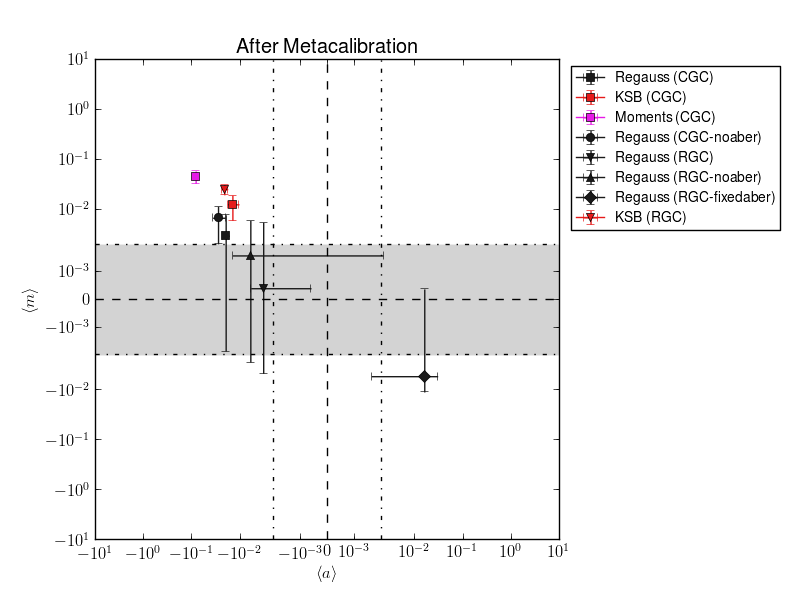
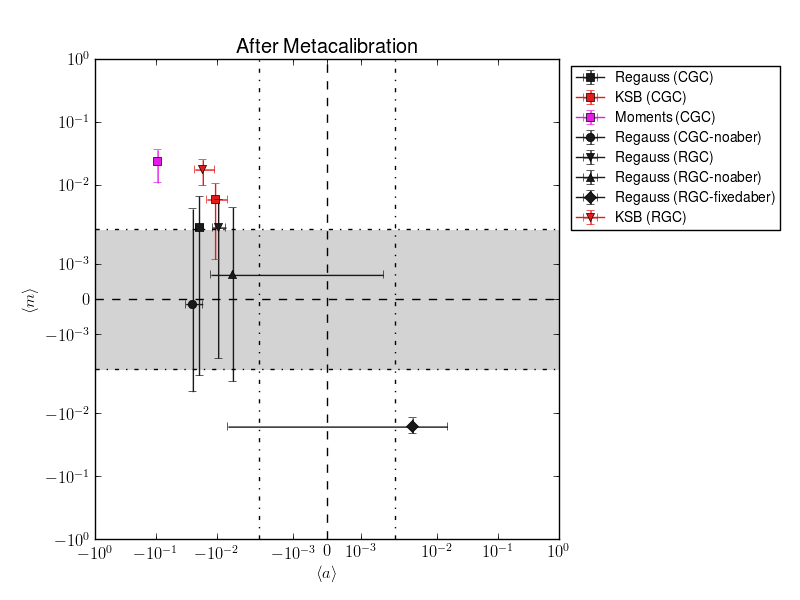
Updated adapative weighting measurement script.

diff --git a/Scripts/shear_est_simple.py b/Scripts/shear_est_simple.py
@@ -94,6 +94,7 @@ def getAllCatalogs( path = '../Great3/', mc_type = None, sn_cut = None ):
             truthCat = truthCat[use]
 
         catalogs.append(this_catalog)
+
     return catalogs, truthFile
 
 def reconstructMetacalMeas(g=None, R=None, a = None, c=None, psf_e=None, delta_g = 0.01 ):
@@ -103,35 +104,18 @@ def reconstructMetacalMeas(g=None, R=None, a = None, c=None, psf_e=None, delta_g
     em = (esum - ediff)/2. - a * psf_e
     return ep,em
 
-def bootstrap_err_est(catalog=None, g1Tag='g1',g2Tag='g2', method=None, n_iter = 100):
-    
-    e1 = []
-    e2 = []
-    for i in xrange(n_iter):
-        this_catalog = np.random.choice(catalog,size=catalog.size,replace=True)
-        this_e1 = method(this_catalog[g1Tag])
-        this_e2 = method(this_catalog[g2Tag])
-        e1.append(this_e1)
-        e2.append(this_e2)
-    e1 = np.array(e1)
-    e2 = np.array(e2)
-    #e1_err = np.abs(np.percentile(e1,36) - np.percentile(e1,64))
-    #e2_err = np.abs(np.percentile(e2,36) - np.percentile(e2,64))
-    e1_err = np.std(e1)
-    e2_err = np.std(e2)
-    return e1_err, e2_err
-
 def shear_avg(e, weights = True, n= 4, exp=False, scale = .25, pars = None):
     if weights is None:
         return np.mean(e)
     else:
         if n is not None:
             #weight = 1./(scale**n + np.abs(e)**n)
-            weight = 1./(1 + (e/scale)**2/n)**((n+1)/2.)
+            weight = 1./(1 + (e/ scale)**2/n)**((n+1)/2.)
         elif exp is True:
             weight = np.exp(- 0.5*np.abs(e/scale)**2)
         elif pars is not None:
             weight = emt.t(e, 0., pars[1], pars[2])
+
         for i in xrange(10):
             eavg = np.average(e,weights=weight)
             if n is not None:
@@ -140,6 +124,7 @@ def shear_avg(e, weights = True, n= 4, exp=False, scale = .25, pars = None):
                 weight = np.exp(- 0.5*(np.abs(e-eavg)/scale)**2)
             elif pars is not None:
                 weight = emt.t(e - eavg, 0., pars[1], pars[2])
+
         logL = np.average(np.log(weight[weight > 0]) - np.log(np.sum(weight)))
         return np.average(e,weights=weight), logL
 
@@ -177,7 +162,7 @@ def shear_est(catalogs, truthFile, delta_g = 0.01, weights = True,mc_type=None):
     yy_data,b = np.histogram(e1_master,bins=bins)
     yy_gauss = np.exp(-(xx-mu1)**2/2./sigma1**2)
     yy_gauss = yy_gauss/np.sum(yy_gauss)
-    yy_power = 1./(1 + (xx/sigma1/2.)**2/(nu1+eps))**(((nu1+eps)+1)/2.)
+    yy_power = 1./(1 + (xx/(sigma1/2.))**2/(nu1+eps))**(((nu1+eps)+1)/2.)
     yy_power = yy_power/np.sum(yy_power)
     ax1.plot(xx,yy_est,label='model')
     ax1.plot(xx,yy_data*1./np.sum(yy_data),label='data')
@@ -192,7 +177,7 @@ def shear_est(catalogs, truthFile, delta_g = 0.01, weights = True,mc_type=None):
     yy_data = yy_data*1./np.sum(yy_data)
     yy_gauss = np.exp(-(xx-mu2)**2/2./sigma2**2)
     yy_gauss = yy_gauss/np.sum(yy_gauss)
-    yy_power = 1./(1 + (xx/sigma2/2.)**2/(nu2+eps))**(((nu2+eps)+1)/2.)
+    yy_power = 1./(1 + (xx/(sigma2/2.))**2/(nu2+eps))**(((nu2+eps)+1)/2.)
     yy_power = yy_power/np.sum(yy_power)
     ax2.plot(xx,yy_est,label='model')
     ax2.plot(xx,yy_data,label='data')
@@ -300,7 +285,6 @@ def getCalibCoeff(results):
     A2 = np.column_stack([results['g2_true'], results['psf_e2'], np.ones_like(results['psf_e2'])]).transpose()
     B2 = results['g2_est'] - results['g2_true']
     ret2_val, covar2 = curve_fit(shear_model, A2, B2, sigma=results['g1_err'])
-
     
     coeff1 = {'m':ret1_val[0],
              'm_err':np.sqrt(covar1[0][0]),
@@ -315,19 +299,18 @@ def getCalibCoeff(results):
              'a_err':np.sqrt(covar2[1][1]),
              'c':ret2_val[2],
              'c_err':np.sqrt(covar2[2][2])}
-
                  
     return coeff1,coeff2
 
 
 
-def analyze(results_all,mc_type = None, logLcut1 = 3.6, logLcut2 = 3.6):
+def analyze(results_all,mc_type = None, logLcut1 = 3.6, logLcut2 = 3.6, clip=False):
 
     # use only the results with matching truth table entries.
     results = results_all[results_all['good'] & (results_all['logL_e1'] > logLcut1) & (results_all['logL_e2'] > logLcut2) ]
     res_exc = results_all[(results_all['logL_e1'] < logLcut1) & (results_all['logL_e2'] < logLcut2) ]
     # Apply a 10% outlier clipping:
-    clipfrac = 5
+    clipfrac = 2
     clip_interval1 = np.abs(np.percentile(results['g1_est'] - results['g1_true'],clipfrac/2.) -
                            np.percentile(results['g1_est'] - results['g1_true'],100-clipfrac/2.))
     keep1 = (np.abs(results['g1_est'] - results['g1_true'] ) < clip_interval1)
@@ -336,14 +319,9 @@ def analyze(results_all,mc_type = None, logLcut1 = 3.6, logLcut2 = 3.6):
     keep2 = (np.abs(results['g2_est'] - results['g2_true'] ) < clip_interval2) 
     keep = keep1 & keep2
     resclip = results[keep]
-    #coeff_clipped1 = np.polyfit(resclip['g1_true'],resclip['g1_est']-resclip['g1_true'],1)
-    #coeff_clipped2 = np.polyfit(resclip['g2_true'],resclip['g2_est']-resclip['g2_true'],1)
-
     
     figName = mc_type+'-simple'
-    #coeff1 = np.polyfit(results['g1_true'],results['g1_est']-results['g1_true'],1)
-    #coeff2 = np.polyfit(results['g2_true'],results['g2_est']-results['g2_true'],1)
-    resraw = results.copy()
+    resraw = results_all.copy()
     resraw['g1_est'] = resraw['g1_raw']
     resraw['g2_est'] = resraw['g2_raw']
     
@@ -362,7 +340,7 @@ def analyze(results_all,mc_type = None, logLcut1 = 3.6, logLcut2 = 3.6):
 
 
     
-    fig,((ax1,ax2),(ax3,ax4),(ax5,ax6)) = plt.subplots(nrows=3,ncols=2,figsize=(14,21))
+    fig,((ax1,ax2),(ax3,ax4),(ax5,ax6),(ax7,ax8)) = plt.subplots(nrows=4,ncols=2,figsize=(14,21))
     xlim = [-0.06, 0.06]
     y_interval_raw = np.abs(np.percentile(np.hstack((results['g1_raw']-results['g1_true'],results['g2_raw']-results['g2_true'])),10) -
                             np.percentile(np.hstack((results['g1_raw']-results['g1_true'],results['g2_raw']-results['g2_true'])),90))
@@ -379,31 +357,45 @@ def analyze(results_all,mc_type = None, logLcut1 = 3.6, logLcut2 = 3.6):
     ax1.axhline(0,linestyle='--',color='red')
     ax1.set_xlim(xlim)
     ax1.set_ylim(ylim_raw)
+    ax1.annotate('m = %.4f +/- %.4f \n a = %.4f +/- %.4f \n c = %.4f +/0 %.4f'%
+                 (coeff1_raw['m'],coeff1_raw['m_err'],coeff1_raw['a'],coeff1_raw['a_err'],
+                  coeff1_raw['c'],coeff1_raw['c_err']),xy=(0.05, 0.85), xycoords='axes fraction')
+
     
     ax2.plot(results['g2_true'],results['g2_raw'] - results['g2_true'],'.',color='blue')
     ax2.plot([-1,1],[coeff2_raw['c'] -coeff2_raw['m'], coeff2_raw['c'] + coeff2_raw['m']],color='cyan')
     ax2.axhline(0,linestyle='--',color='red')
     ax2.set_xlim(xlim)
     ax2.set_ylim(ylim_raw)
+    ax2.annotate('m = %.4f +/- %.4f \n a = %.4f +/- %.4f \n c = %.4f +/0 %.4f'%
+                 (coeff2_raw['m'],coeff2_raw['m_err'],coeff2_raw['a'],coeff2_raw['a_err'],
+                  coeff2_raw['c'],coeff2_raw['c_err']),xy=(0.05, 0.85), xycoords='axes fraction')
     
     #--------------------------------------------------    
     # Next, the MC'd results.
     #--------------------------------------------------
     ax3.plot(results['g1_true'],results['g1_est'] - results['g1_true'],'.',color='blue')
-    ax3.plot(res_exc['g1_true'],res_exc['g1_est'] - res_exc['g1_true'],'.',color='red')
+    ax3.plot(res_exc['g1_true'],res_exc['g1_est'] - res_exc['g1_true'],'s',color='red')
     ax3.plot([-1,1],[coeff1['c'] -coeff1['m'], coeff1['c'] + coeff1['m']],color='orange')
     ax3.plot([-1,1],[coeff_clipped1['c'] -coeff_clipped1['m'], coeff_clipped1['c'] + coeff_clipped1['m']],color='cyan')
     ax3.axhline(0,linestyle='--',color='red')
     ax3.set_xlim(xlim)
     ax3.set_ylim(ylim_est)
-    
+    ax3.annotate('m = %.4f +/- %.4f \n a = %.4f +/- %.4f \n c = %.4f +/0 %.4f'%
+                 (coeff1['m'],coeff1['m_err'],coeff1['a'],coeff1['a_err'],
+                  coeff1['c'],coeff1['c_err']),xy=(0.05, 0.85), xycoords='axes fraction')
+
+        
     ax4.plot(results['g2_true'],results['g2_est'] - results['g2_true'],'.',color='blue')
-    ax4.plot(res_exc['g2_true'],res_exc['g2_est'] - res_exc['g2_true'],'.',color='red')
+    ax4.plot(res_exc['g2_true'],res_exc['g2_est'] - res_exc['g2_true'],'s',color='red')
     ax4.plot([-1,1],[coeff2['c'] -coeff2['m'], coeff2['c'] + coeff2['m']],color='orange')
     ax4.plot([-1,1],[coeff_clipped2['c'] -coeff_clipped2['m'], coeff_clipped2['c'] + coeff_clipped2['m']],color='cyan')
     ax4.axhline(0,linestyle='--',color='red')
     ax4.set_xlim(xlim)
     ax4.set_ylim(ylim_est)
+    ax4.annotate('m = %.4f +/- %.4f \n a = %.4f +/- %.4f \n c = %.4f +/0 %.4f'%
+                 (coeff2['m'],coeff2['m_err'],coeff2['a'],coeff2['a_err'],
+                  coeff2['c'],coeff2['c_err']),xy=(0.05, 0.85), xycoords='axes fraction')
 
     ax5.plot(results_all['logL_e1'],results_all['g1_est']-results_all['g1_true'],'.')
     ax5.set_xlabel('logL')
@@ -413,9 +405,31 @@ def analyze(results_all,mc_type = None, logLcut1 = 3.6, logLcut2 = 3.6):
     ax6.set_xlabel('logL')
     ax6.axvline(logLcut2,color='red')
     ax6.axhline(0,color='red',linestyle='--')
+
+    ax7.plot(results['psf_e1'],results['g1_est']-results['g1_true'],'.',color='blue')
+    ax7.plot(res_exc['psf_e1'],res_exc['g1_est']-res_exc['g1_true'],'s',color='red')
+    ax7.plot(results['psf_e1'],results['g1_est']-results['g1_true'],'.',color='blue')
+    ax7.plot(res_exc['psf_e1'],res_exc['g1_est']-res_exc['g1_true'],'s',color='red')
+    ax7.plot([-1,1],[coeff1['c'] - coeff1['a'], coeff1['c'] + coeff1['a']],color='orange')
+    ax7.plot([-1,1],[coeff_clipped1['c'] - coeff_clipped1['a'], coeff_clipped1['c'] + coeff_clipped1['a']],color='orange')
+    ax7.axhline(0,linestyle='--',color='red')
+    ax7.set_xlim(-0.2,0.2)
+    ax7.set_xlabel('psf_e1')
+        
+    ax8.plot(results['psf_e2'],results['g2_est']-results['g2_true'],'.',color='blue')
+    ax8.plot(res_exc['psf_e2'],res_exc['g2_est']-res_exc['g2_true'],'s',color='red')
+    ax8.plot([-1,1],[coeff2['c'] - coeff2['a'], coeff2['c'] + coeff2['a']],color='orange')
+    ax8.plot([-1,1],[coeff_clipped2['c'] - coeff_clipped2['a'], coeff_clipped2['c'] + coeff_clipped2['a']],color='orange')
+    ax8.axhline(0,linestyle='--',color='red')
+    ax8.set_xlim(-0.2,0.2)
+    ax8.set_xlabel('psf_e2')
     
+        
     fig.savefig(figName)
-    return coeff1, coeff2, coeff1_raw, coeff2_raw
+    if clip is False:
+        return coeff1, coeff2, coeff1_raw, coeff2_raw
+    else:
+        return coeff_clipped1, coeff_clipped2, coeff1_raw, coeff2_raw
 
 def determineLoglCuts(catalog, percentile = None):
     if percentile is not None:
@@ -442,6 +456,7 @@ def main(argv):
     parser.add_argument("-p", "--percentile_cut", dest="percentile_cut",
                         help="percentile",type= float, default = 10)
     parser.add_argument("-a", "--do_all", dest = "do_all", action="store_true", default = False)
+    parser.add_argument("-c", "--clip", dest = "clip", action='store_true', help="clip large residuals", default = False)
     parser.add_argument("-sn", "--snos_cut", dest="sn_cut",
                         help="signal-to-noise cut",type= float, default = 0)
 
@@ -461,6 +476,7 @@ def main(argv):
         logLcut1, logLcut2 = determineLoglCuts(results, percentile = args.percentile_cut)
         coeff1, coeff2,_,_ = analyze(results,mc_type= args.mc_type, logLcut1 = logLcut1, logLcut2 = logLcut2)
 
+    
 
     else:
         final_mc_choices = ['regauss', 'ksb', 'moments','noaber-regauss','rgc-regauss',
@@ -474,21 +490,22 @@ def main(argv):
             catalogs, truthfile = getAllCatalogs(path=path, mc_type= mc_type)
             results = shear_est(catalogs,truthfile, mc_type = mc_type)
             logLcut1, logLcut2 = determineLoglCuts(results, percentile = percentile_cut)
-            coeff1_d, coeff2_d, coeff1_nc_d, coeff2_nc_d = analyze(results,mc_type= mc_type, logLcut1 = logLcut1, logLcut2 = logLcut2)
+            coeff1_d, coeff2_d, coeff1_nc_d, coeff2_nc_d = analyze(results,mc_type= mc_type,
+                                                                   logLcut1 = logLcut1, logLcut2 = logLcut2,
+                                                                   clip=args.clip)
             outfile_coeff = "final_field_fit_coefficients-simple.txt"
-            keys = ['m','m_err','c','c_err','a','a_err']
+            keys = ['m','a','c','m_err','a_err','c_err']
             coeff1 = [coeff1_d[key] for key in keys]
             coeff2 = [coeff2_d[key] for key in keys]
             coeff1_nc = [coeff1_nc_d[key] for key in keys]
             coeff2_nc = [coeff2_nc_d[key] for key in keys]
             all_coeff.append(np.hstack((mc_type, coeff1_nc, coeff2_nc, coeff1, coeff2) ))
-    
         with open(outfile_coeff,'w') as f:
             print "# method  m1_no_corr  sigma_m1_no_corr  c1_no_corr  sigma_c1_no_corr  a1_no_corr  sigma_a1_no_corr  m2_no_corr  sigma_m2_no_corr  c2_no_corr  sigma_c2_no_corr  a2_no_corr  sigma_a2_no_corr  m1_mc  sigma_m1_mc  c1_mc  sigma_c1_mc  a1_mc  sigma_a1_mc  m2_mc  sigma_m2_mc  c2_mc  sigma_c2_mc  a2_mc  sigma_a2_mc \n"
             for row in all_coeff:
                 for el in row:
                     f.write(str(el)+' ')
-                    f.write('\n')
+                f.write('\n')
 
             
 if __name__ == "__main__":

diff --git a/Scripts/great3like.py b/Scripts/great3like.py
@@ -12,13 +12,13 @@ matplotlib.rcParams['pdf.use14corefonts'] = True
 matplotlib.rcParams['text.usetex'] = True
 
 # define constants, files, etc.
-infile = 'final_field_fit_coefficients.txt'
+infile = 'final_field_fit_coefficients-simple.txt'
 outfile1 = 'great3_before_after'
 outfile2 = 'great3_before'
 outfile3 = 'great3_after'
 outsuff = '.png'
-a_lim = (-10.,10.)
-m_lim = (-10.,10.)
+a_lim = (-1.,1.)
+m_lim = (-1.,1.)
 # components: average them or ...?
 components = ['1','2','both']
 # make dicts with translation of codes to branches and methods
@@ -69,13 +69,13 @@ for component in components:
         a_err_vals = new_array[:,10]
         m_vals = new_array[:,6]
         m_err_vals = new_array[:,9]
+
     min_a = min(a_vals-a_err_vals)
     max_a = max(a_vals+a_err_vals)
     min_m = min(m_vals-m_err_vals)
     max_m = max(m_vals+m_err_vals)
     for ind in range(n):
         mstr = method_list[ind]
-        print mstr
         #if 'moments' not in mstr:
         plt.errorbar([a_vals[ind]], [m_vals[ind]], xerr=[a_err_vals[ind]], yerr=[m_err_vals[ind]],
                      marker=info_dict[mstr]['marker'], color=info_dict[mstr]['color'],

diff --git a/Scripts/shear_ensemble_est.py b/Scripts/shear_ensemble_est.py
@@ -849,7 +849,6 @@ def main(argv):
             print "wrote plots to "+mc_type+'-opt-shear_plots.png'
         outfile_coeff = "final_field_fit_coefficients.txt"
         with open(outfile_coeff,'w') as f:
-            print "# method  m1_no_corr  sigma_m1_no_corr  c1_no_corr  sigma_c1_no_corr  a1_no_corr  sigma_a1_no_corr  m2_no_corr  sigma_m2_no_corr  c2_no_corr  sigma_c2_no_corr  a2_no_corr  sigma_a2_no_corr  m1_mc  sigma_m1_mc  c1_mc  sigma_c1_mc  a1_mc  sigma_a1_mc  m2_mc  sigma_m2_mc  c2_mc  sigma_c2_mc  a2_mc  sigma_a2_mc \n"
             for row in all_coeff:
                 for el in row:
                     f.write(str(el)+' ')
